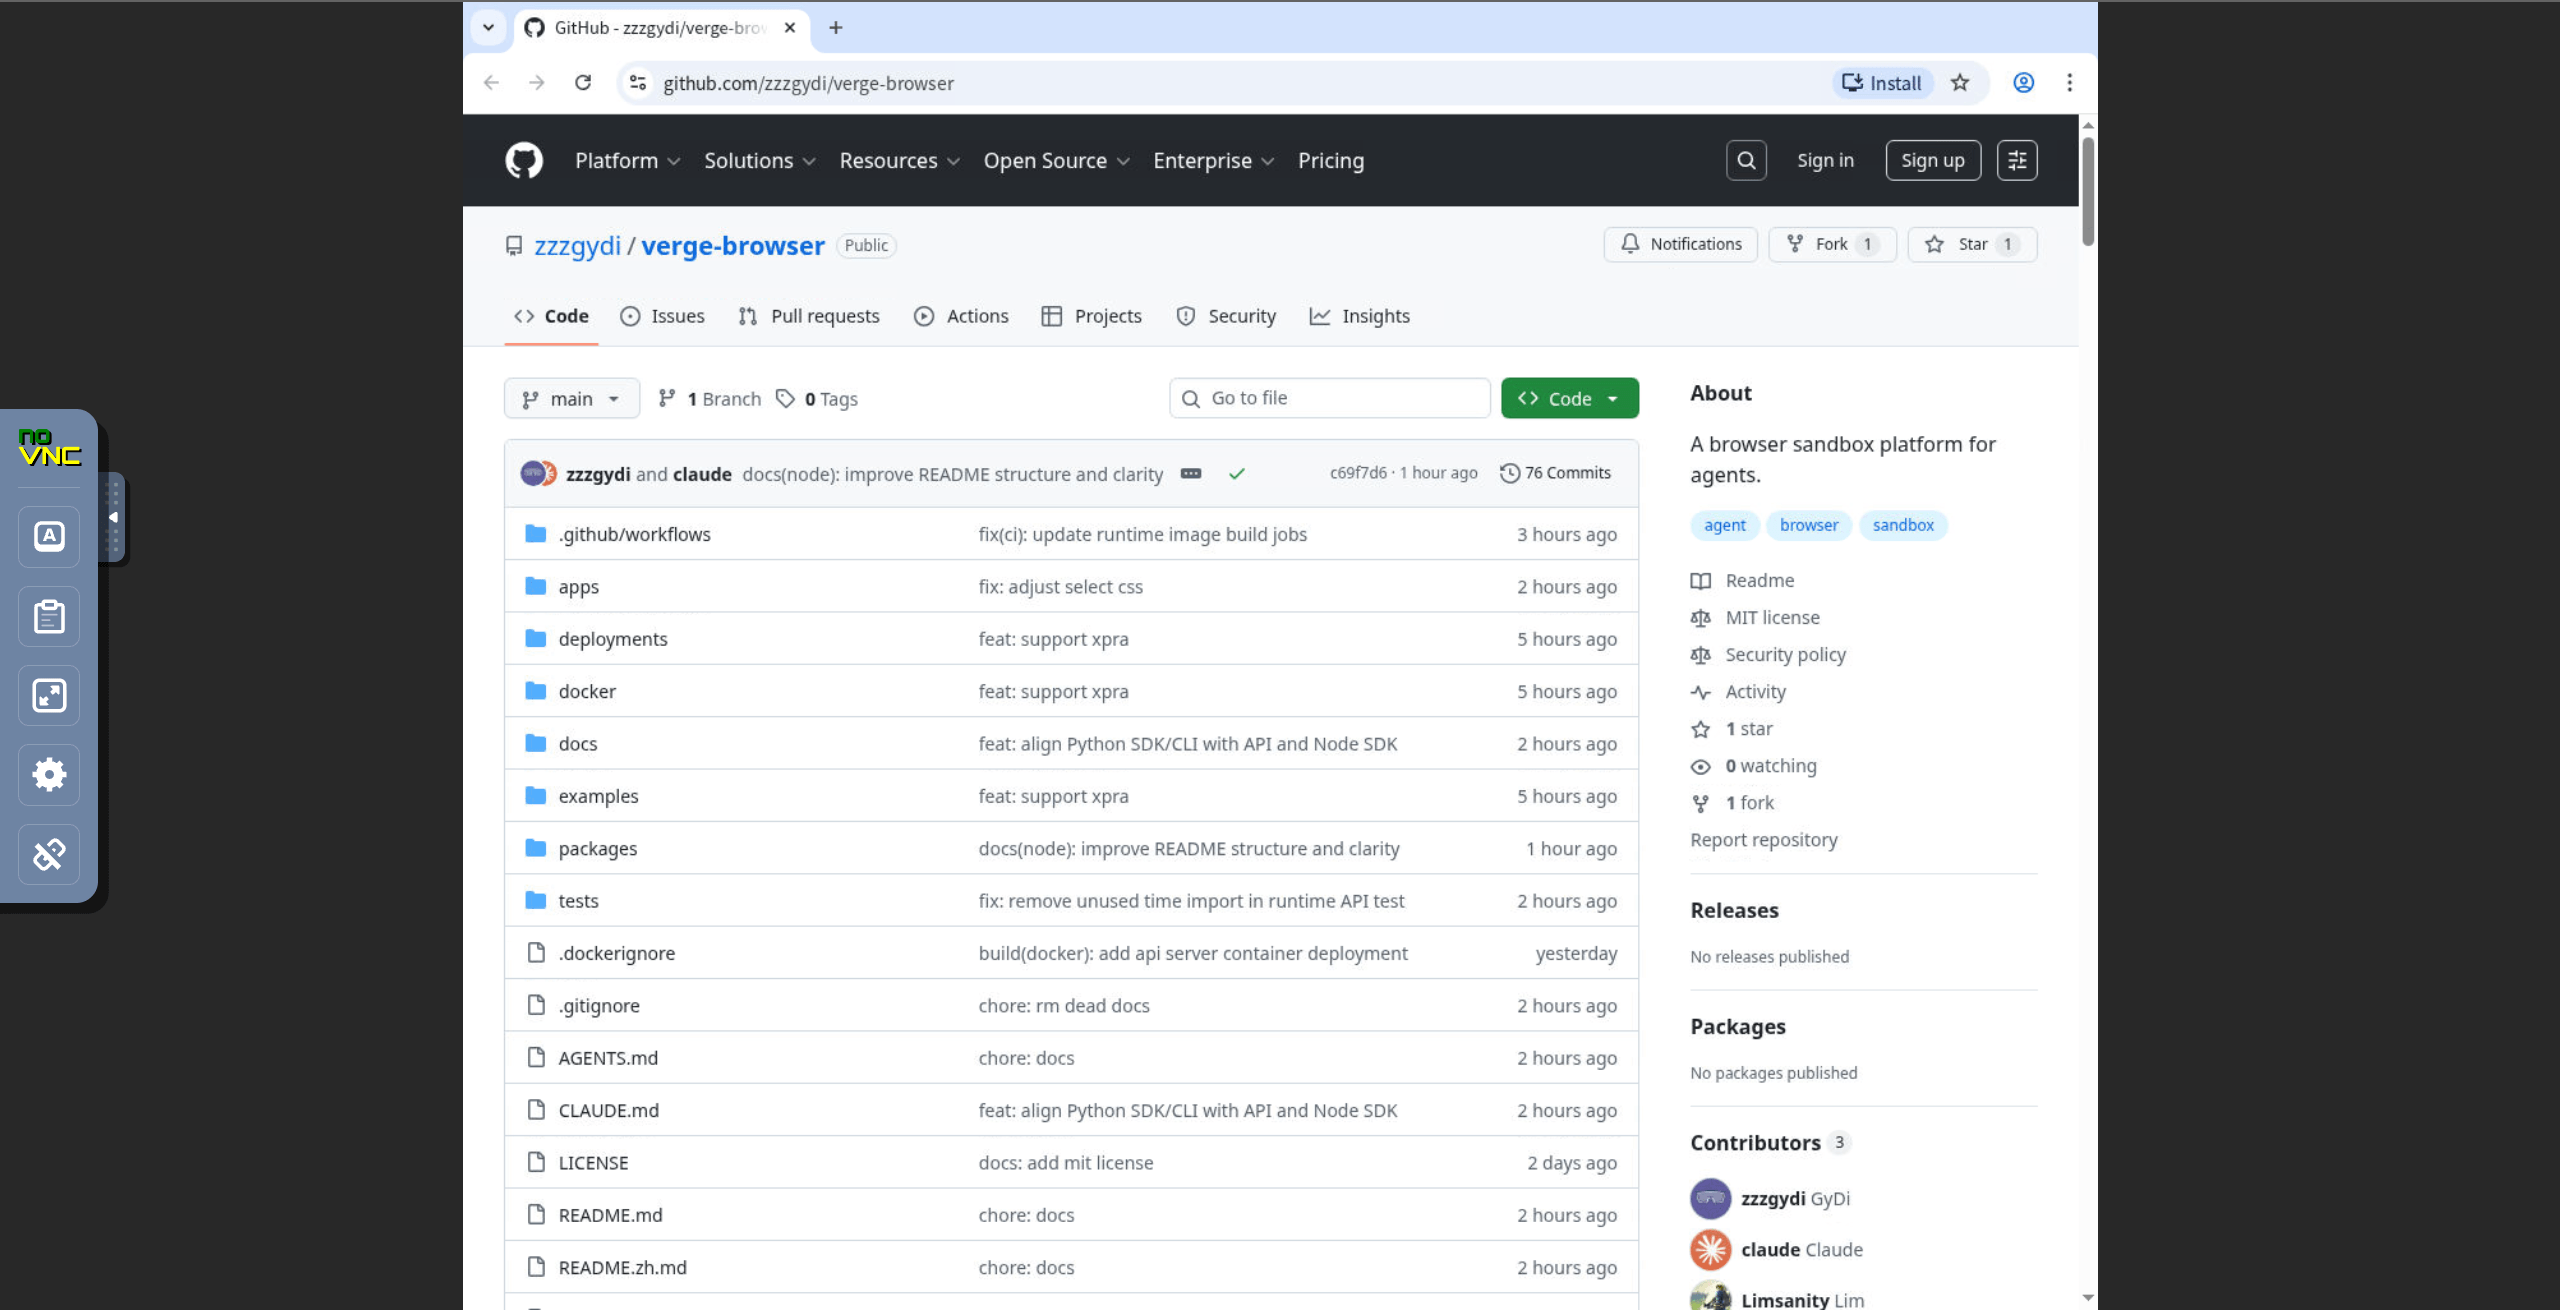
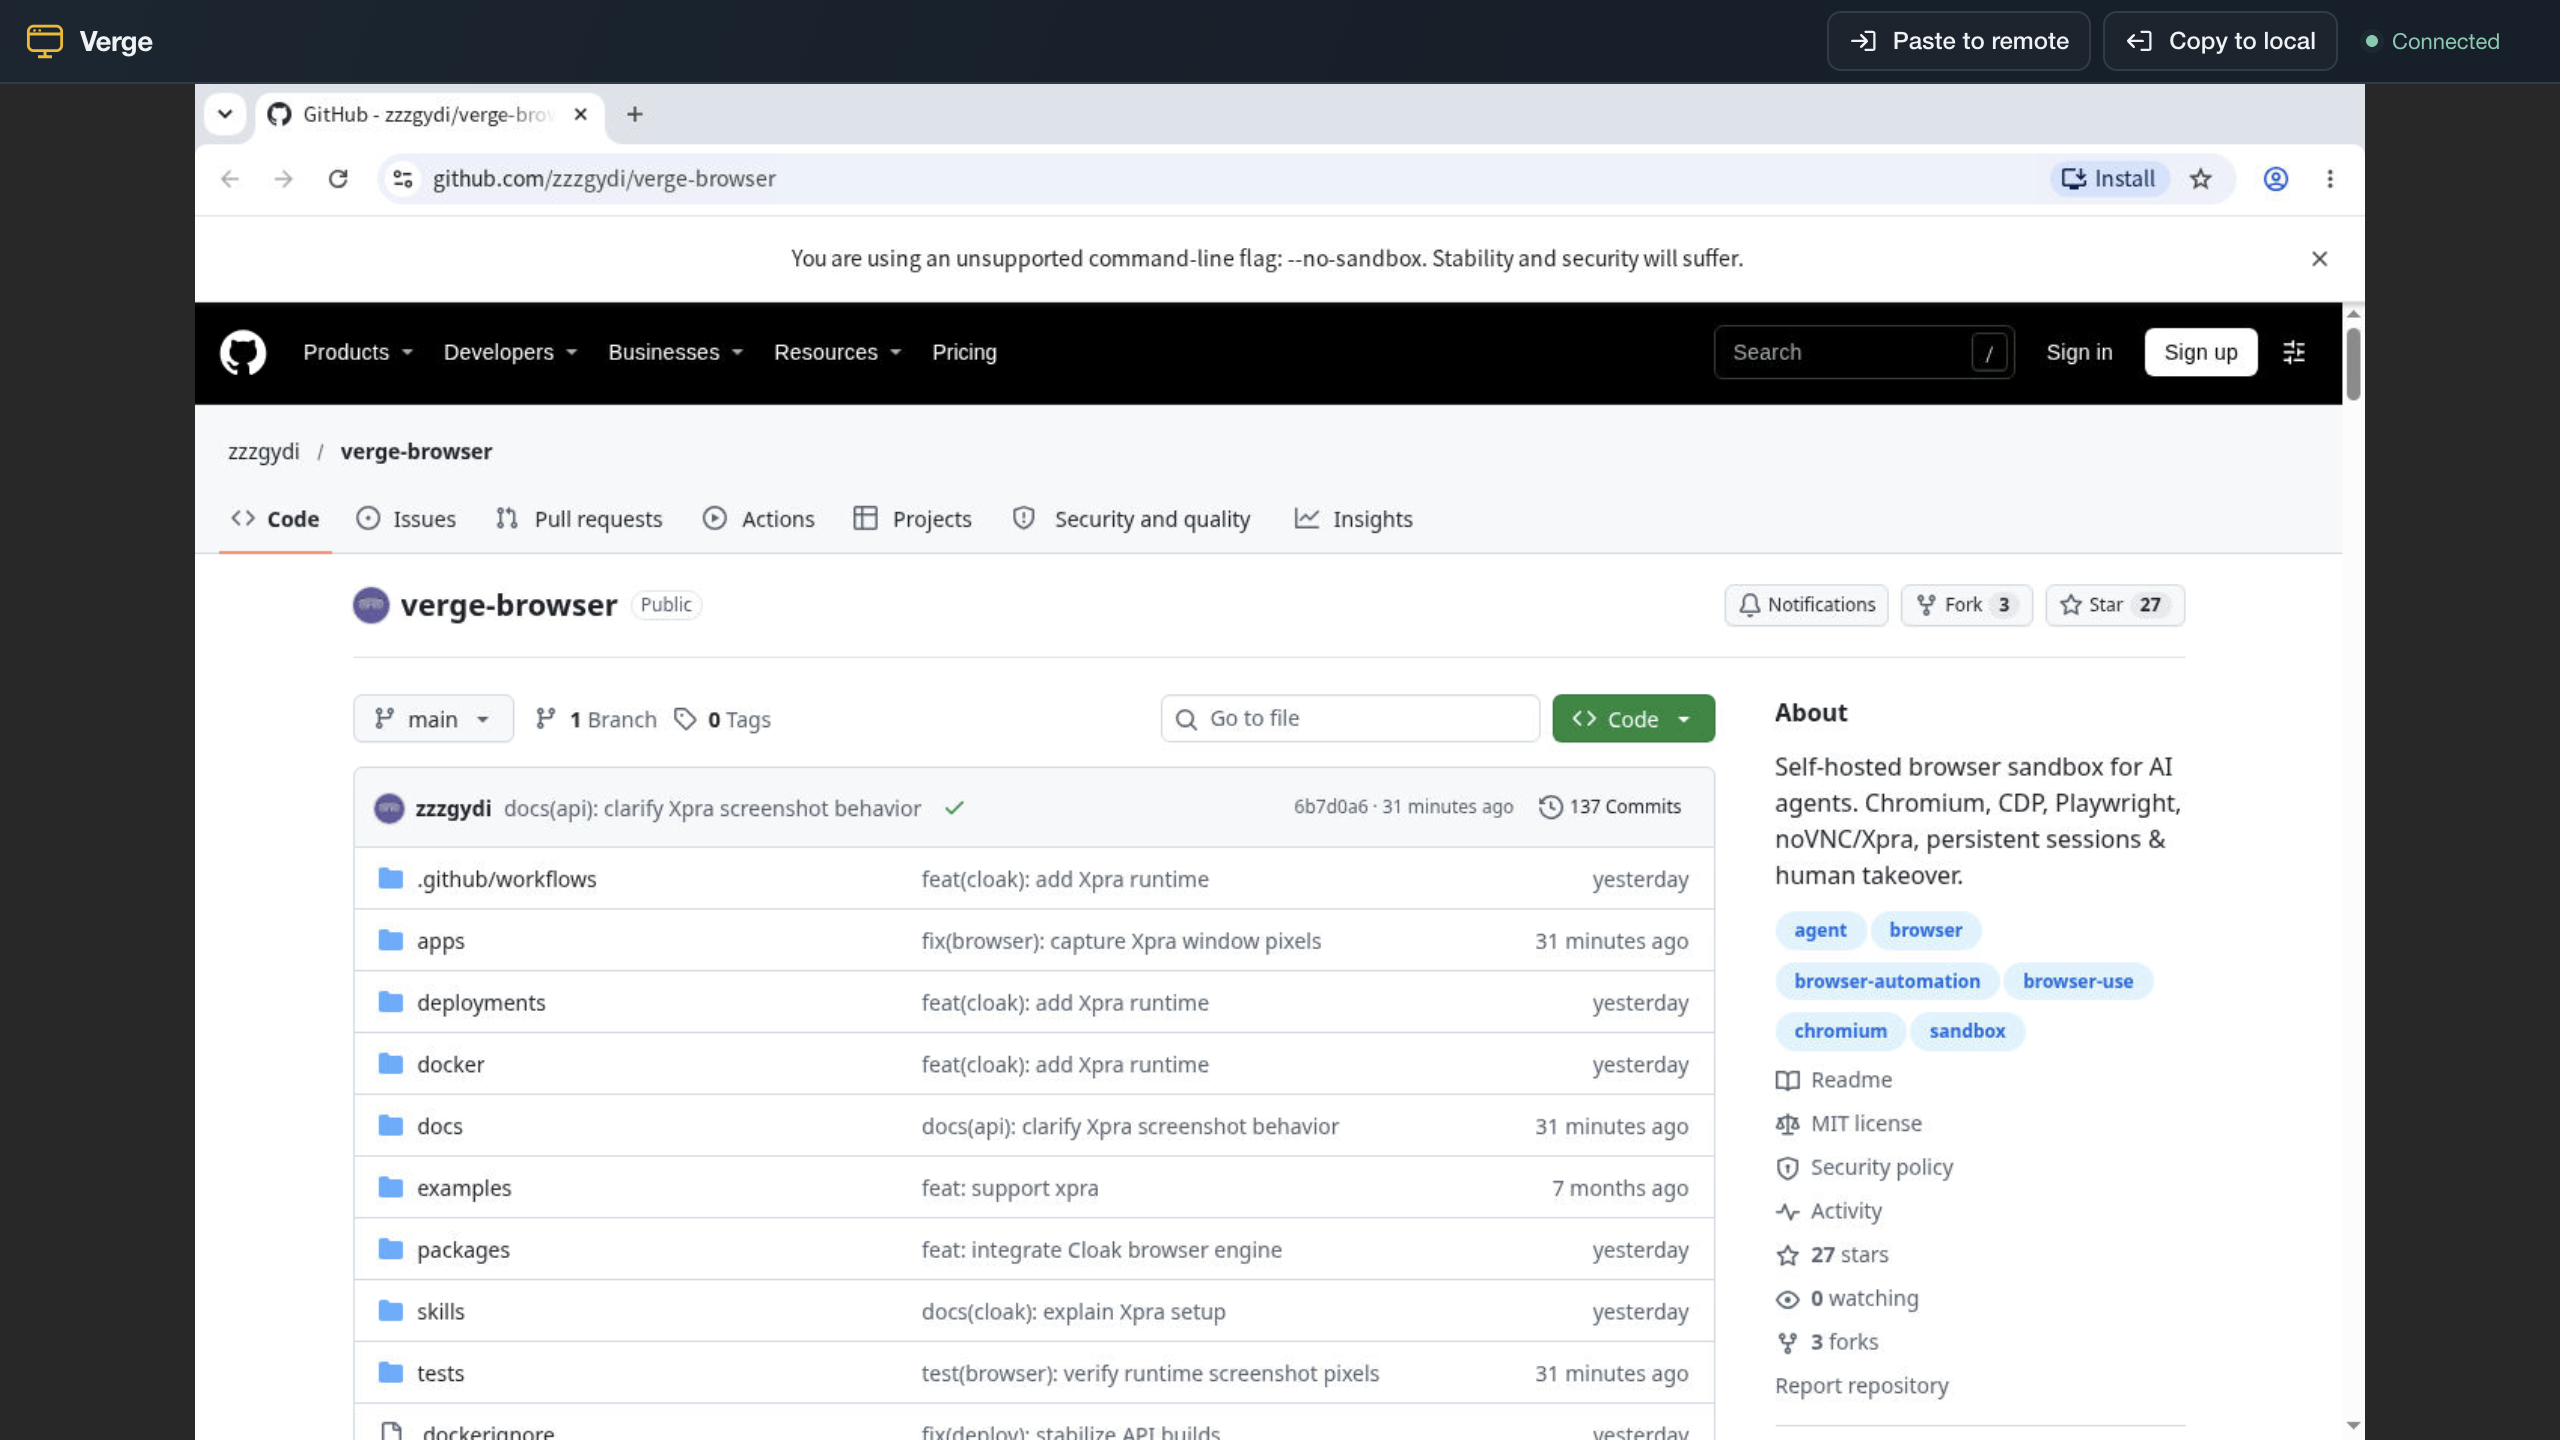
docs: update readme

diff --git a/README.md b/README.md
@@ -9,18 +9,28 @@ Run real GUI Chromium on a headless Linux server. Automate websites through CDP 
 [Quick Start](#quick-start) · [Linux Server Deployment](./docs/guides/headless-linux.md) · [Codex + Playwright MCP](./docs/integrations/codex.md) · [Human Handoff](./docs/guides/human-handoff.md)
 
 <p align="center">
-  <img src="docs/assets/png-admin.png" alt="Verge Browser admin console" width="48%" />
-  <img src="docs/assets/png-vnc.png" alt="Verge Browser noVNC session" width="48%" />
+  <img src="docs/assets/png-admin.png" alt="Verge Browser dashboard with sandbox status icons, a browser screenshot preview, and session and CDP controls" width="100%" />
 </p>
 <p align="center">
-  <strong>Sandbox Control</strong> | <strong>noVNC Session</strong>
+  <strong>Dashboard</strong> · Search sandboxes, check their status, and preview the selected browser without opening a session.
 </p>
+
+<details>
+<summary>View the noVNC session</summary>
+
+<p align="center">
+  <img src="docs/assets/png-vnc.png" alt="Live noVNC session showing Chromium with the Verge clipboard toolbar and Connected status" width="100%" />
+</p>
+
+The session opens the same browser for manual interaction, with explicit clipboard controls. Both screenshots use a real Chromium / Xvfb + VNC sandbox displaying this repository's public GitHub page.
+
+</details>
 
 ## Core Capabilities
 
 - **Real GUI Chromium**: not headless; supports multi-tabs, downloads, popups, and full browser behavior
 - **CDP Automation**: compatible with Playwright and Puppeteer through a WebSocket endpoint
-- **GUI-Level Screenshots**: capture the full browser window, not only page content
+- **GUI-Level Screenshots**: capture the full browser window, not only page content; select a running sandbox in the dashboard to preview it and refresh on demand
 - **Human Handoff**: unified session entry for both noVNC and Xpra
 - **File Sharing**: browser and APIs share `/workspace` for uploads, downloads, and artifacts
 - **Persistent Browser Profiles**: reuse the workspace and on-disk profile after pause/resume; this is not a snapshot of running tabs or browser memory

diff --git a/README.zh.md b/README.zh.md
@@ -9,18 +9,28 @@
 [快速开始](#快速开始) · [Linux 服务器部署](./docs/guides/headless-linux.md) · [Codex + Playwright MCP](./docs/integrations/codex.md) · [人工接管](./docs/guides/human-handoff.md)
 
 <p align="center">
-  <img src="docs/assets/png-admin.png" alt="Verge Browser 管理控制台" width="48%" />
-  <img src="docs/assets/png-vnc.png" alt="Verge Browser noVNC 会话" width="48%" />
+  <img src="docs/assets/png-admin.png" alt="Verge Browser 新版控制台，包含沙箱状态图标、浏览器截图预览和 Session、CDP 连接操作" width="100%" />
 </p>
 <p align="center">
-  <strong>控制台</strong> | <strong>noVNC 会话</strong>
+  <strong>管理控制台</strong> · 搜索沙箱、查看状态，无需打开会话即可预览选中沙箱的浏览器画面。
 </p>
+
+<details>
+<summary>查看 noVNC 会话</summary>
+
+<p align="center">
+  <img src="docs/assets/png-vnc.png" alt="真实 noVNC 会话，展示 Chromium、Verge 剪贴板工具栏和已连接状态" width="100%" />
+</p>
+
+打开会话后，可以手动操作同一个浏览器，并通过工具栏传送剪贴板文本。两张截图均来自真实的 Chromium / Xvfb + VNC 沙箱，浏览器中打开的是本仓库的公开 GitHub 页面。
+
+</details>
 
 ## 核心能力
 
 - **真实 GUI Chromium**：不是 headless，支持多标签、下载、弹窗等完整浏览器行为
 - **CDP 自动化**：可通过 WebSocket 与 Playwright、Puppeteer 兼容
-- **GUI 级截图**：抓取完整浏览器窗口，而不只是页面内容
+- **GUI 级截图**：抓取完整浏览器窗口，而不只是页面内容；在控制台选中运行中的沙箱即可预览，并按需刷新
 - **人工接管**：对 noVNC 和 Xpra 提供统一 session 入口
 - **文件共享**：浏览器与 API 共用 `/workspace`，便于上传、下载和产物交换
 - **持久化浏览器 Profile**：暂停后恢复可复用工作目录和已写入磁盘的 Profile，但不保证还原运行中的标签页或浏览器内存
